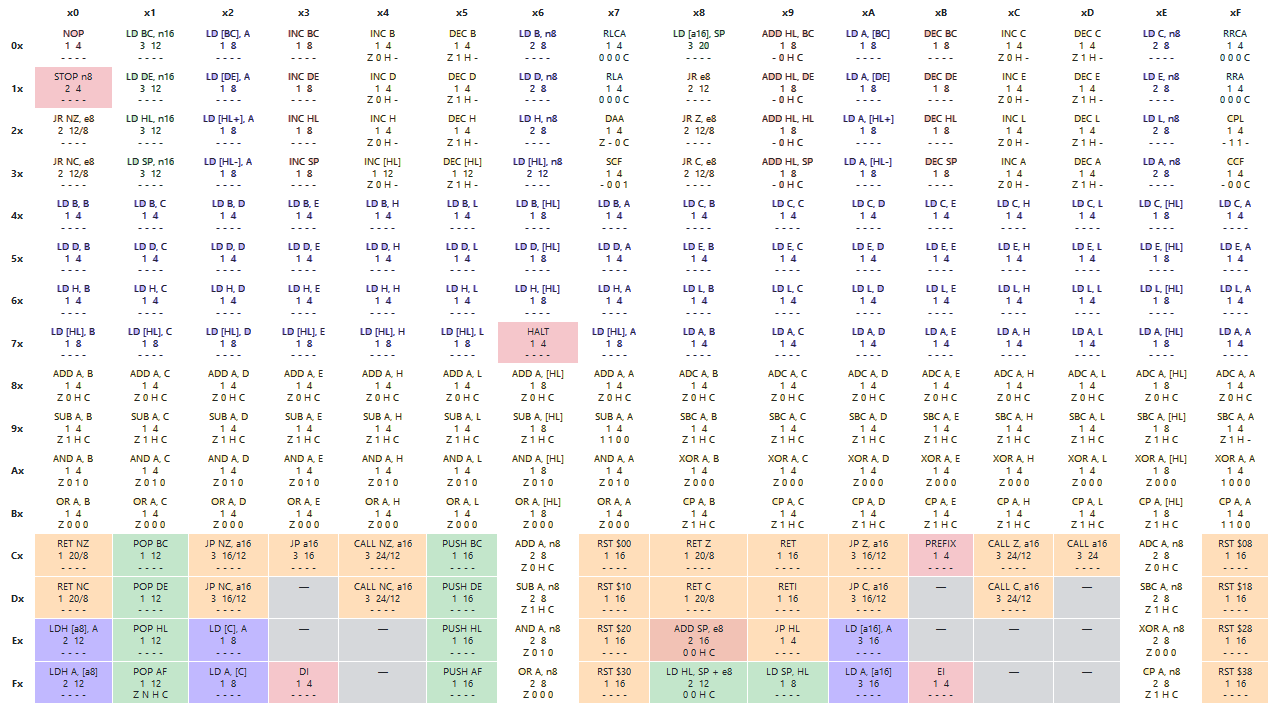
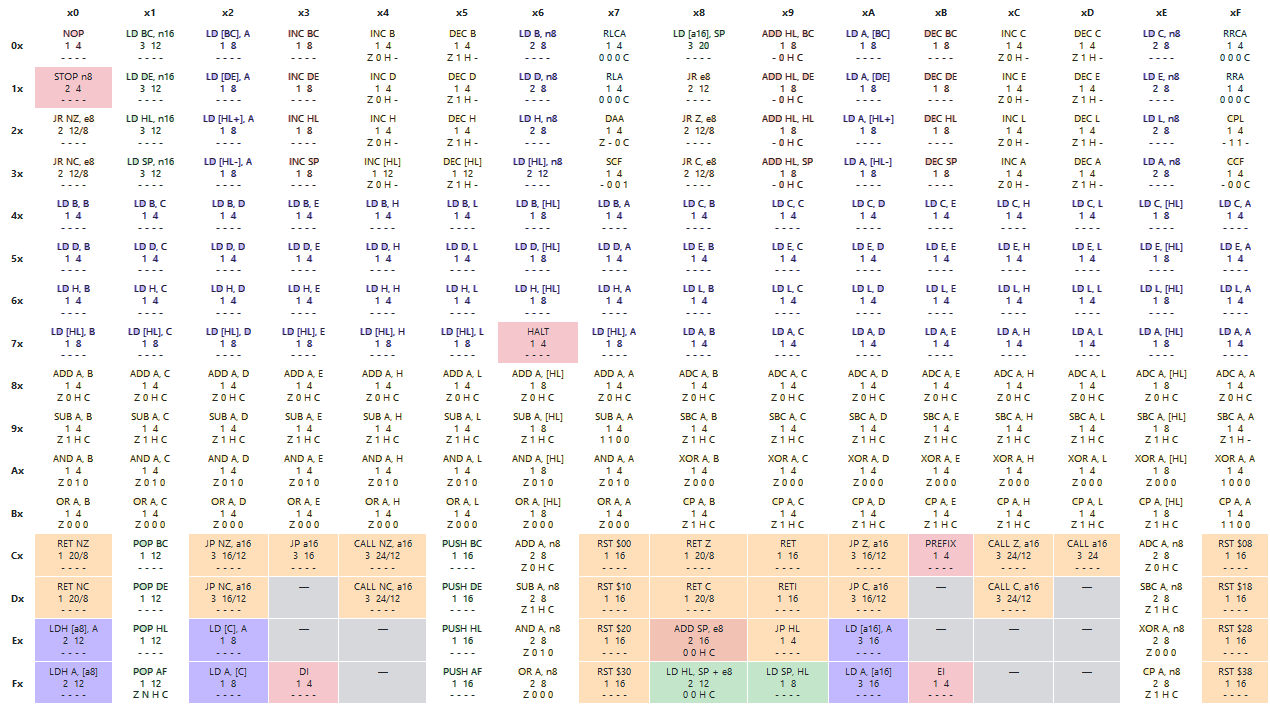
add push and pop instructions

Changed region(s): [[0.0614, 0.75, 0.1535, 1.0], [0.3378, 0.75, 0.3992, 1.0]]

diff --git a/src/cpu/instructions.rs b/src/cpu/instructions.rs
@@ -60,6 +60,8 @@ lazy_static!{
 
 		// stack instructions
 		Instruction::new(vec![0x08], 20, "LD [a16], SP", LD_A16_SP),
+		Instruction::new(vec![0xC5, 0xD5, 0xE5, 0xF5], 16, "PUSH r16", PUSH_R16),
+		Instruction::new(vec![0xC1, 0xD1, 0xE1, 0xF1], 12, "POP r16", POP_R16),
 
 		// arithmetic instructions
 		Instruction::new(vec![0x80, 0x81, 0x82, 0x83, 0x84, 0x85, 0x86, 0x87], 4, "ADD A, r8", ADD_ADC),
@@ -177,7 +179,7 @@ fn SCF(cpu: &mut CPU, opcode: u8, cycles: &mut u16) {
 /*
 
 MNEMONIC: DAA
-OPCODES: 0x00
+OPCODES: 0x27
 DESC: For Binary-coded decimal numbers (https://blog.ollien.com/posts/gb-daa/)
 FLAGS: - - - -
 
@@ -380,6 +382,48 @@ fn LD_A_R16MEM(cpu: &mut CPU, opcode: u8, cycles: &mut u16) {
 }
 
 // ! stack instructions
+
+/*
+
+MNEMONIC: PUSH r16stk
+OPCODES: 0x(C-F)5
+DESC: Pushes r16 onto the stack
+FLAGS: - - - -
+
+*/
+fn PUSH_R16(cpu: &mut CPU, opcode: u8, cycles: &mut u16) {
+	let target = cpu.registers.get_16bit_reg(Register16Bit::from_r16stk((opcode >> 4) & 3));
+
+	let mut target_addr = cpu.dec_sp();
+	cpu.bus.write_byte(target_addr, (target & 0xF) as u8);
+
+	target_addr = cpu.dec_sp();
+	cpu.bus.write_byte(target_addr, (target >> 4) as u8);
+
+	cpu.pc += 1;
+}
+
+/*
+
+MNEMONIC: POP r16
+OPCODES: 0x(C-F)1
+DESC: pops a value off the stack and stores it in r16
+FLAGS: - - - -
+FLAGS (POP AF): Z N H C
+
+*/
+fn POP_R16(cpu: &mut CPU, opcode: u8, cycles: &mut u16) {
+
+	let low_byte = cpu.bus.read_byte(cpu.registers.get_16bit_reg(Register16Bit::SP));
+	let sp = cpu.inc_sp();
+	let hi_byte = cpu.bus.read_byte(sp);
+	cpu.inc_sp();
+
+	let new_value = (hi_byte as u16) << 8 | low_byte as u16;
+	cpu.registers.set_16bit_reg(Register16Bit::from_r16stk((opcode >> 4) & 3), new_value);
+
+	cpu.pc += 1;
+}
 
 /*
 
@@ -748,7 +792,7 @@ fn RLCA_RRCA(cpu: &mut CPU, opcode: u8, cycles: &mut u16) {
 /*
 
 MNEMONIC: RLA, RRA
-OPCODES: 0x00
+OPCODES: 0x17, 0x1F
 DESC: Shifts the A register to the left. Wraps around to the carry bit, then carry bit is set to the shifted out bit.
 FLAGS: 0 0 0 C
 

diff --git a/src/cpu/cpu.rs b/src/cpu/cpu.rs
@@ -1,6 +1,7 @@
-use crate::cpu::registers::*;
-use crate::cpu::instructions::*;
+use super::registers::*;
+use super::instructions::*;
 use crate::bus::*;
+use super::decode::Interrupt;
 
 pub struct CPU<'a> {
 	pub registers: Registers,
@@ -62,6 +63,10 @@ impl<'a> CPU<'a> {
 
 	}
 	
+	pub fn interrupt(source: Interrupt) {
+
+	}
+
 	pub fn get_deref_hl(&self) -> u8 {
 		self.bus.read_byte(self.registers.get_16bit_reg(Register16Bit::HL))
 	}
@@ -141,5 +146,19 @@ impl<'a> CPU<'a> {
 		self.pc += 1;
 
 		self.pc
+	}
+
+	pub fn inc_sp(&mut self) -> u16 {
+		let old_value = self.registers.get_16bit_reg(Register16Bit::SP);
+		self.registers.set_16bit_reg(Register16Bit::SP, old_value.overflowing_add(1).0);
+
+		old_value.overflowing_add(1).0
+	}
+
+	pub fn dec_sp(&mut self) -> u16 {
+		let old_value = self.registers.get_16bit_reg(Register16Bit::SP);
+		self.registers.set_16bit_reg(Register16Bit::SP, old_value.overflowing_sub(1).0);
+
+		old_value.overflowing_sub(1).0
 	}
 }

diff --git a/src/cpu/registers.rs b/src/cpu/registers.rs
@@ -183,6 +183,15 @@ impl Register16Bit {
 			_ => panic!("Invalid r16mem")
 		}
 	}
+	pub fn from_r16stk(r16stk: u8) -> Self {
+		match r16stk {
+			0 => Self::BC,
+			1 => Self::DE,
+			2 => Self::HL,
+			3 => Self::AF,
+			_ => panic!("Invalid r16stk")
+		}
+	}
 }
 
 impl Register8Bit {

diff --git a/src/cpu/decode.rs b/src/cpu/decode.rs
@@ -11,6 +11,14 @@ pub enum Cond {
 	c,
 }
 
+pub enum Interrupt {
+	VBLANK,
+	LCDC,
+	SERIAL,
+	TIMER,
+	HiToLo
+}
+
 impl Cond {
 	pub fn new(num: u8) -> Self {
 		match num {
